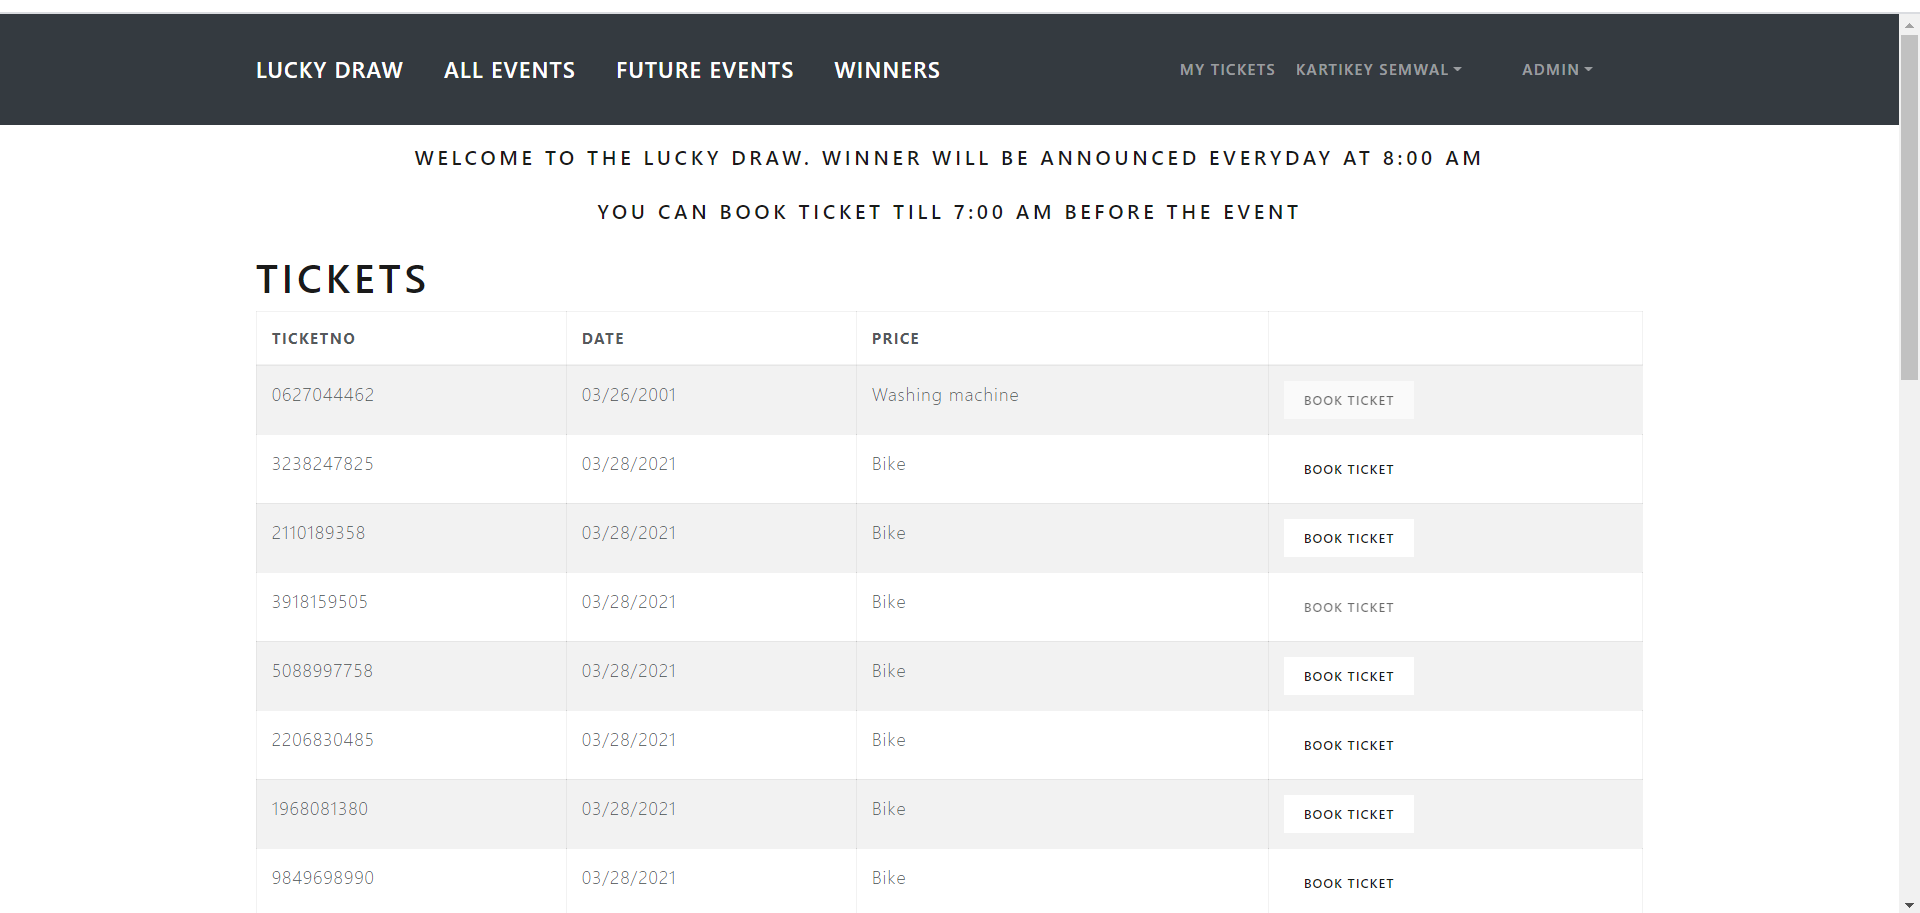
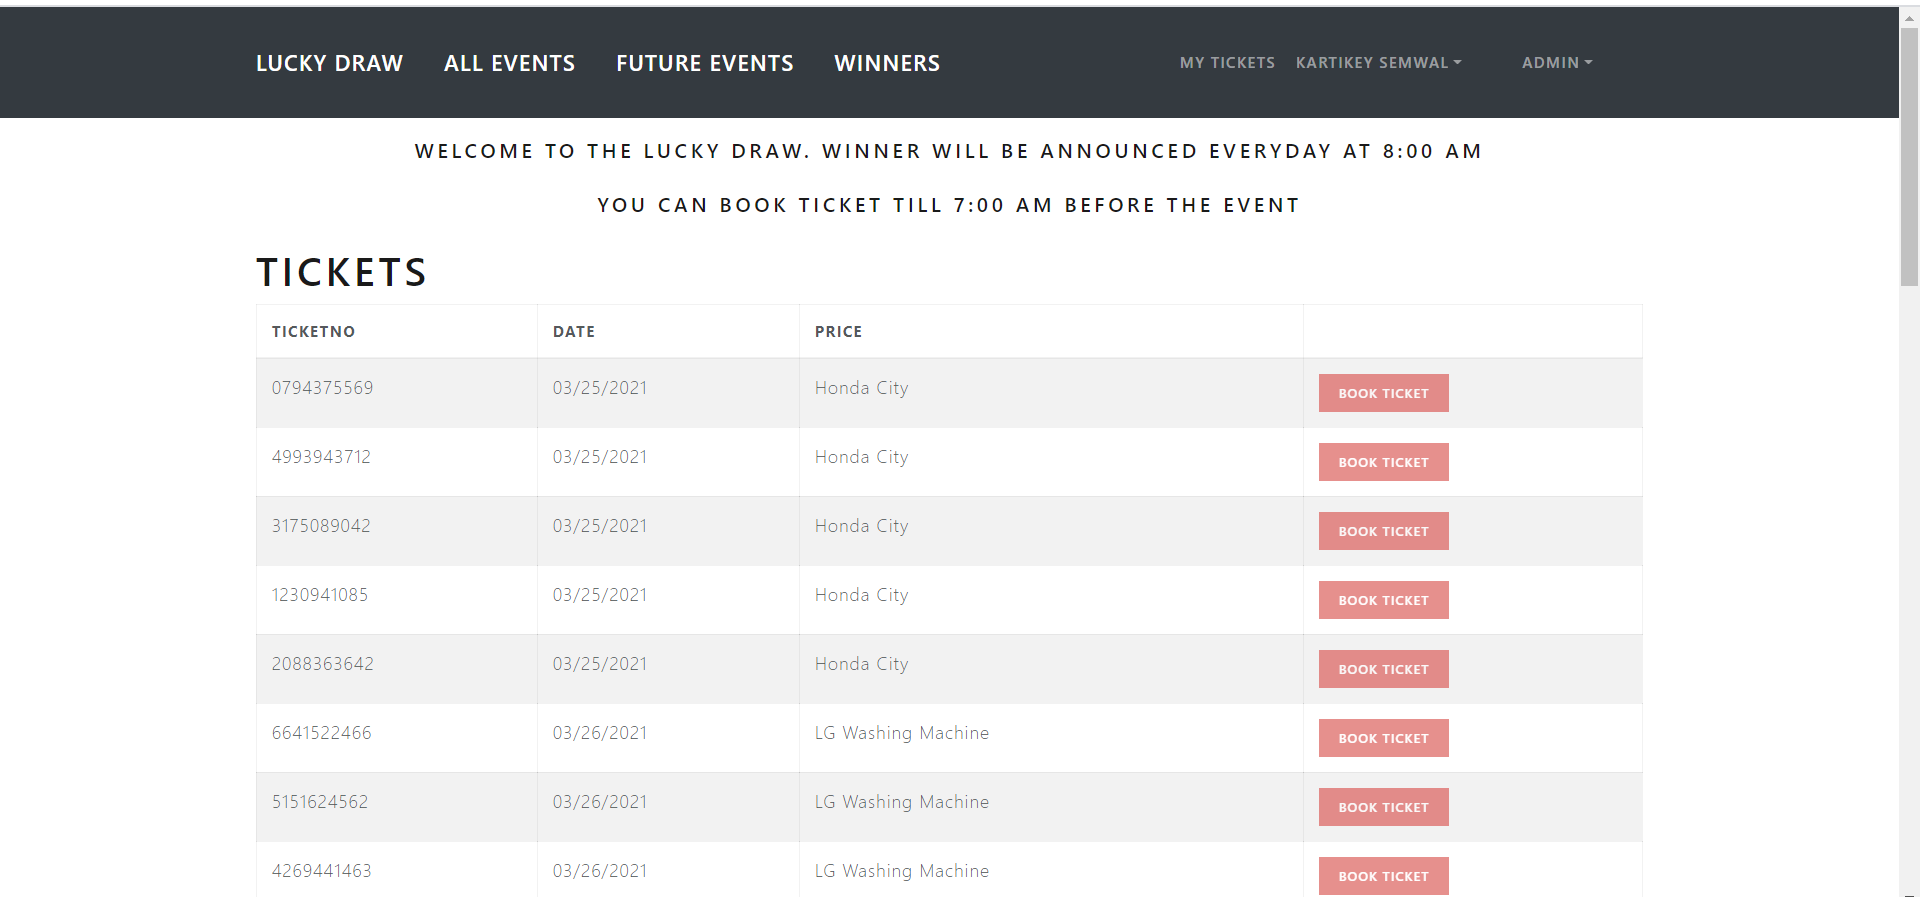
Fixed issues

diff --git a/controllers/userController.js b/controllers/userController.js
@@ -23,6 +23,11 @@ const registerUser = asyncHandler(async (req, res) => {
         throw new Error("User already exists");
     }
 
+    if (password.length < 6) {
+        res.status(400);
+        throw new Error("Password should be atleast of 6 characters");
+    }
+
     const user = await User.create({
         name,
         email,
@@ -83,6 +88,20 @@ const generateEvent = asyncHandler(async (req, res) => {
 
     date = formatDate(date);
 
+    var diff = new Date(date) - new Date();
+
+    // diff = diff / 1000; // For seconds
+    // console.log(diff, " in seconds");
+    // diff = diff / 60; // For minutes
+    // console.log(diff, " in minutes");
+    // diff = diff / 60; //For hours
+    // console.log(diff, " in hours");
+
+    if (diff <= 0) {
+        res.status(400);
+        throw new Error("Event cannot be created for past dates");
+    }
+
     var eventDetail = await EventDetail.findOne({ date });
 
     if (!eventDetail && !price) {
@@ -123,7 +142,6 @@ const bookTicket = asyncHandler(async (req, res) => {
 
     // Check time of booking
 
-    console.log(ticket.eventDetail.dateFormat, " - ", new Date());
     var diff = ticket.eventDetail.dateFormat - new Date();
 
     // diff = diff / 1000; // For seconds

diff --git a/frontend/src/screens/HomeScreen.js b/frontend/src/screens/HomeScreen.js
@@ -59,7 +59,11 @@ const HomeScreen = ({}) => {
                                         }
                                     >
                                         <Button
-                                            variant="light"
+                                            variant={
+                                                ticket.user != null
+                                                    ? "danger"
+                                                    : "dark"
+                                            }
                                             className="btn-sm"
                                             disabled={ticket.user != null}
                                         >

diff --git a/frontend/public/index.html b/frontend/public/index.html
@@ -24,7 +24,7 @@
       work correctly both with client-side routing and a non-root public URL.
       Learn how to configure a non-root public URL by running `npm run build`.
     -->
-    <title>React App</title>
+    <title>Lucky Draw</title>
   </head>
   <body>
     <noscript>You need to enable JavaScript to run this app.</noscript>
